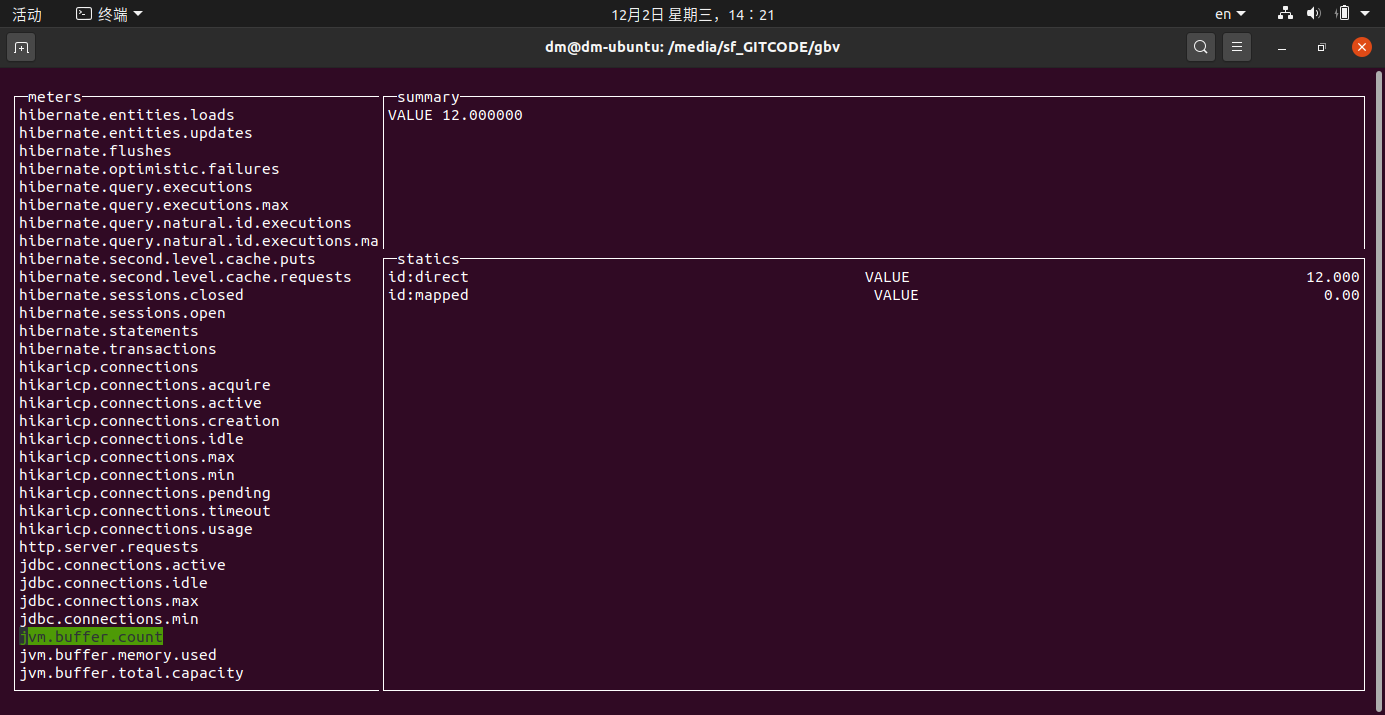
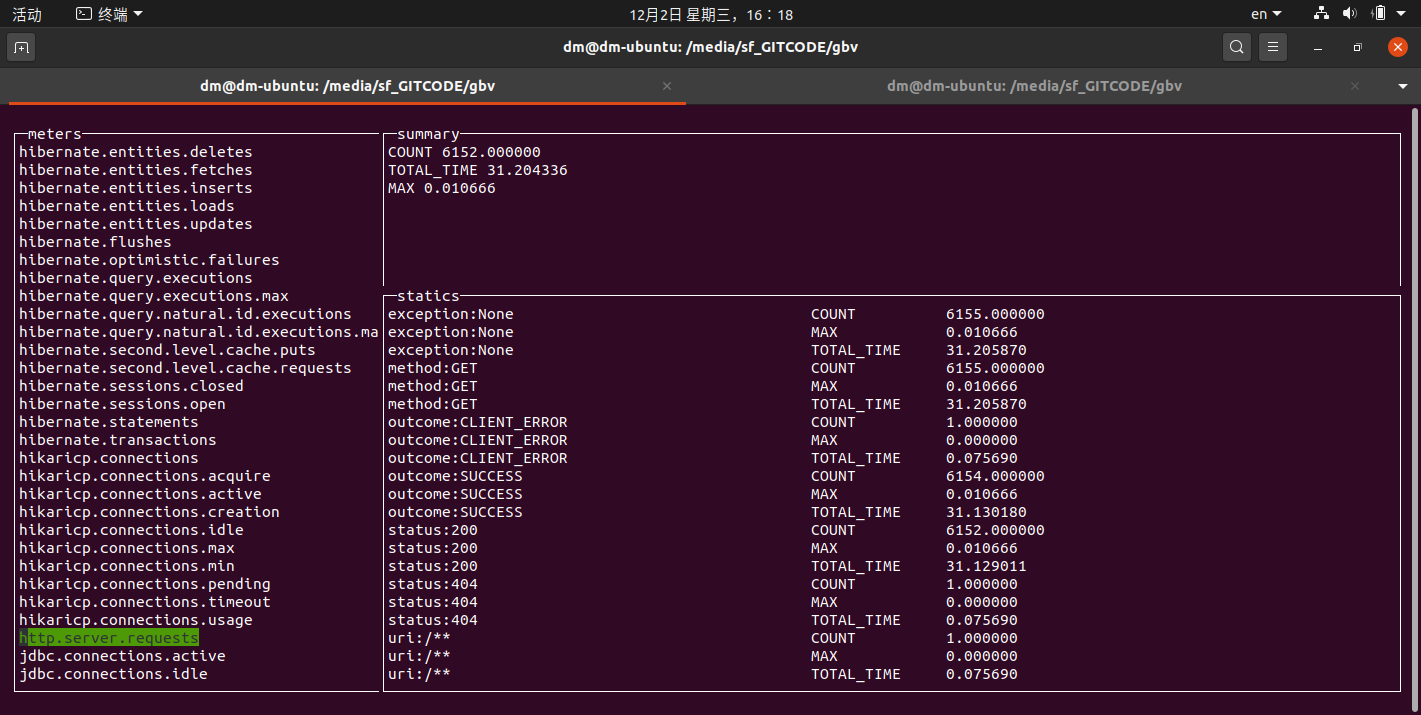
pretty print

diff --git a/detail.go b/detail.go
@@ -5,9 +5,12 @@ import (
 	"context"
 	"fmt"
 	"log"
-	"strconv"
+
+	// "strconv"
+	"sort"
 	"strings"
 	"sync"
+	"text/tabwriter"
 	"time"
 
 	"github.com/jroimartin/gocui"
@@ -76,20 +79,27 @@ func (s *detail) updateTag(meterName string, meter *Meter) {
 	}
 
 	timer := time.NewTimer(2 * time.Second)
-	sb := bytes.NewBufferString("")
+	// sb := bytes.NewBufferString("")
+	lines := make([]string, 0)
 	for {
 		select {
 		case <-timer.C:
 			cancelFunc()
 			close(rc)
 			// log.Println(sb.String())
+			sort.Strings(lines)
 			s.g.Update(func(g *gocui.Gui) error {
 				v, err := g.View("tags")
 				if err != nil {
 					// handle error
 				}
 				v.Clear()
-				fmt.Fprint(v, sb.String())
+				tw := tabwriter.NewWriter(v, 0, 0, 1, '\t', tabwriter.AlignRight)
+				for _, line := range lines {
+					fmt.Fprintln(tw, line)
+				}
+				tw.Flush()
+
 				return nil
 			})
 			return
@@ -101,20 +111,26 @@ func (s *detail) updateTag(meterName string, meter *Meter) {
 			} else {
 				m := v.(TagMeter)
 				for _, me := range m.meter.Measurements {
-					ss := s.expandStrings(m.tag, me.Statistic, strconv.FormatFloat(me.Value, 'f', 3, 64))
-					log.Println(ss)
-					sb.WriteString(ss + "\n")
+					// ss := s.expandStrings(m.tag, me.Statistic, strconv.FormatFloat(me.Value, 'f', 3, 64))
+					// log.Println(ss)
+					// sb.WriteString(ss + "\n")
+					lines = append(lines, fmt.Sprintf("%s\t%s\t%f\t", m.tag, me.Statistic, me.Value))
 				}
 			}
 
 			if c == 0 {
+				sort.Strings(lines)
 				s.g.Update(func(g *gocui.Gui) error {
 					v, err := g.View("tags")
 					if err != nil {
 						// handle error
 					}
 					v.Clear()
-					fmt.Fprint(v, sb.String())
+					tw := tabwriter.NewWriter(v, 10, 5, 5, ' ', 0)
+					for _, line := range lines {
+						fmt.Fprintln(tw, line)
+					}
+					tw.Flush()
 					return nil
 				})
 				return
